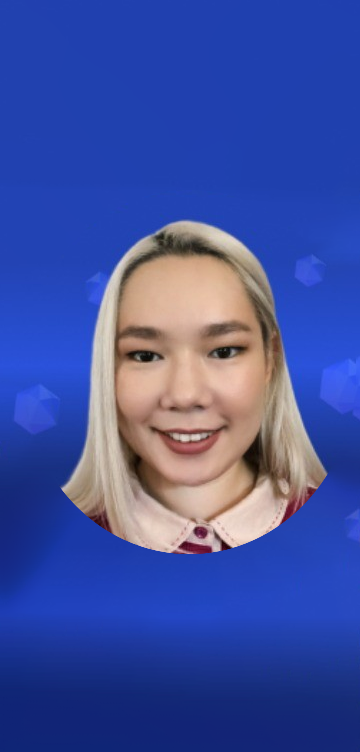
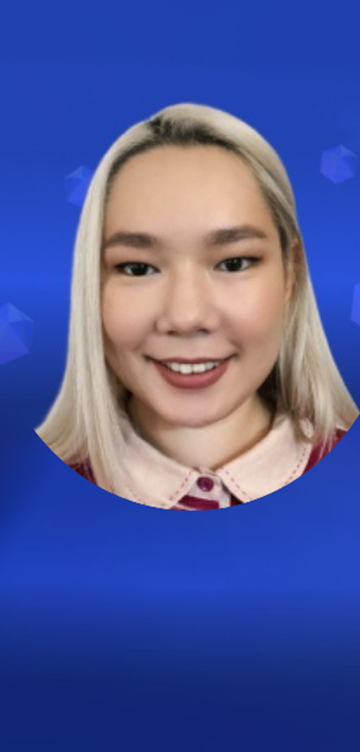
update testimonials

diff --git a/components/Testimonials.tsx b/components/Testimonials.tsx
@@ -3,7 +3,7 @@
 import { AnimatePresence, motion } from "framer-motion";
 import { useEffect, useState } from "react";
 
-const AUTO_DURATION = 4500;
+const AUTO_DURATION = 10000;
 
 const testimonials = [
   {
@@ -18,15 +18,15 @@ const testimonials = [
       "Muneeb played an important role in strengthening our brand and supporting marketing and lead generation at Stryx Sports. He is dependable, responsive, and someone you can always count on. He’s always on top of his work and easy to depend on.",
     name: "Mohamed Elbatouti",
     role: "Chief Commercial Officer at Stryxsports",
-    bgImage: "/client1.jpg",
+    bgImage: "/batouti.png",
   },
-  // {
-  //   quote:
-  //     "He understood our brand quickly and translated it into a clean, modern digital experience that exceeded expectations.",
-  //   name: "Daniel Reed",
-  //   role: "Product Lead at Avero",
-  //   bgImage: "/client1.jpg",
-  // },
+  {
+    quote:
+      "Working with Muneeb on the website project was seamless. He was highly supportive in structuring, planning, and effortlessly executing the entire process, making collaboration easy and efficient throughout.",
+    name: "Devika Mathavan",
+    role: "Marketing & Brand Manager at 2b Limitless",
+    bgImage: "/devika.png",
+  },
   // {
   //   quote:
   //     "Great collaboration, clear communication, and a strong eye for detail throughout the project.",

diff --git a/app/layout.tsx b/app/layout.tsx
@@ -2,8 +2,8 @@ import type { Metadata } from "next";
 import "./globals.css";
 
 export const metadata: Metadata = {
-  title: "Andrew Parker — Web Designer & Developer",
-  description: "I create websites that work as hard as you do. UX/UI design, web development, and branding for individuals and businesses.",
+  title: "Muneeb Parammal — UI UX Designer & Product Designer",
+  description: "   I’m Crafting Meaningful Digital Experiences.",
 };
 
 export default function RootLayout({
